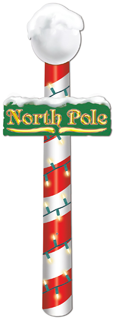
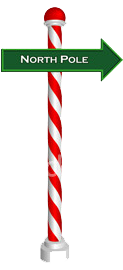
new pole

diff --git a/css/main.css b/css/main.css
@@ -91,7 +91,7 @@ section{
 }
 .login-screen  .overlay{
     opacity: 0;
-    background: url(../img/loading-screen/loading.gif) no-repeat 50% 50% #0d9ebf;
+    background: url(../img/loading-screen/loading.gif) no-repeat 50% 50% #0f524d;
     -webkit-transition: opacity 6s;
 }
 .login-screen.loading .snow-drift{
@@ -143,13 +143,13 @@ section{
     -webkit-transition: top 3s 2s;
 }
 .login-screen.loading .north-pole-sign {
-    bottom: -320px;
+    bottom: -270px;
 }
 .login-screen .north-pole-sign{
     left:50%;
     bottom: 0px;
-    width:113px;
-    height:320px;
+    width:123px;
+    height:270px;
     background: url(../img/loading-screen/north-pole.png) top center;
     -webkit-transition: bottom 0.5s 11s;
 }

diff --git a/js/main.js b/js/main.js
@@ -83,9 +83,9 @@ $(function(){
 
 			$('.north-pole-sign').on('mouseenter mouseleave', function(e){
 				if(e.type == "mouseenter"){
-					$(this).addClass('shake');
+					$(this).addClass('tada');
 				}else{
-					$(this).removeClass('shake')
+					$(this).removeClass('tada')
 				}
 			});
 

diff --git a/index.html b/index.html
@@ -37,7 +37,7 @@
 
             <h1 class="crimbo-font large abc">Merry Christmas</h1>
 
-            <div class="north-pole-sign ab-b top-index animated"></div>
+            <a href="#" class="north-pole-sign ab-b top-index animated"></a>
 
         </section>
 
